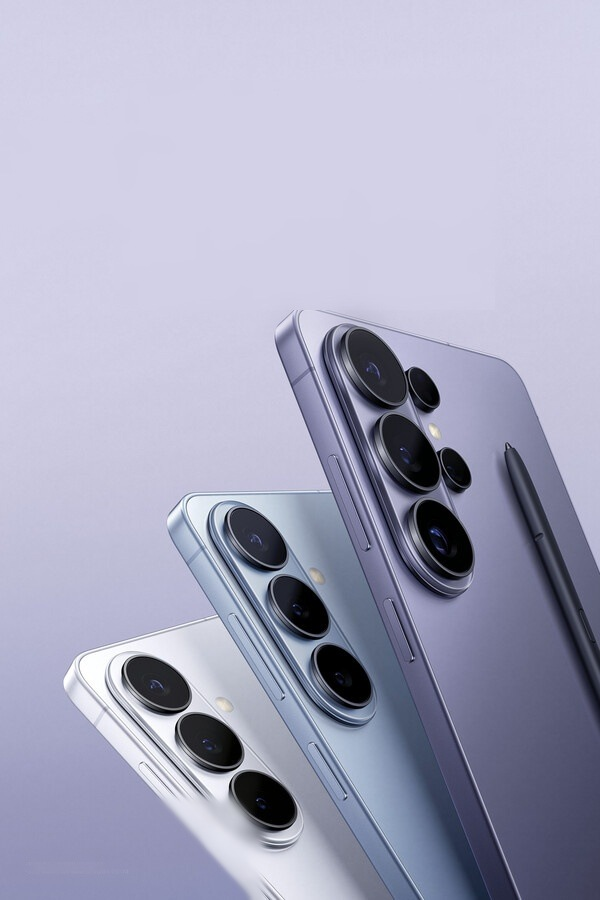
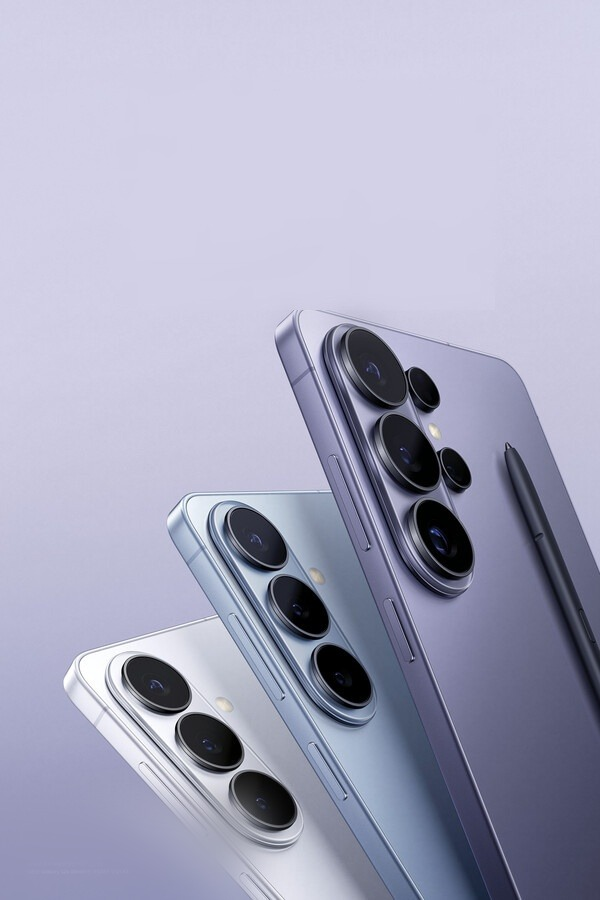
백업 이미지 + 인페인팅 스크립트 추가 (사용 안되는 v2 잔여물 정리)

Changed region(s): [[0.27, 0.8711, 0.48, 0.9956]]

diff --git a/_clean_hero_v2.py b/_clean_hero_v2.py
@@ -1,0 +1,29 @@
+"""hero_new.jpg에서 흰 글자 디스클레이머 2개 영역(상단 좌측 / 하단 좌측) 깔끔하게 제거.
+주변 라벤더 그라데이션 패턴을 그대로 복제해서 자연스럽게 덮음."""
+from PIL import Image, ImageFilter
+
+src = Image.open('hero_new.jpg').convert('RGB')
+W, H = src.size  # 600x900
+
+# === 1) 상단 좌측 텍스트 영역 ===
+# 텍스트 위치 (대략): y=140~200, x=10~230
+# 위쪽(y=20~80)에서 깨끗한 라벤더 영역 가져와 복제
+top_text_box = (0, 130, 260, 215)  # 살짝 여유
+clean_top_src = src.crop((0, 30, 260, 115))  # 같은 x, 위쪽 클린 영역 (높이 85)
+# top_text_box 높이는 215-130=85 → 같음
+src.paste(clean_top_src, (top_text_box[0], top_text_box[1]))
+
+# === 2) 하단 좌측 텍스트 영역 ===
+# 텍스트 위치 (대략): y=830~890, x=10~220
+# 위쪽(y=720~780)에서 클린 라벤더 가져와 복제 (단, 폰 그림자가 안 들어갈 영역)
+# 하단 왼쪽 끝부분은 폰이 거의 끝나는 부분이라 라벤더가 보임
+bot_text_box = (0, 825, 250, 895)  # 70픽셀 높이
+clean_bot_src = src.crop((0, 745, 250, 815))  # 위쪽 70픽셀
+src.paste(clean_bot_src, (bot_text_box[0], bot_text_box[1]))
+
+# 살짝 블러 처리해서 경계 부드럽게 (선택)
+# 페이스트 경계가 너무 또렷하면 블렌딩
+# (라벤더 그라데이션이라 큰 차이 없음)
+
+src.save('hero_new.jpg', 'JPEG', quality=92, optimize=True)
+print('hero_new.jpg cleaned')
